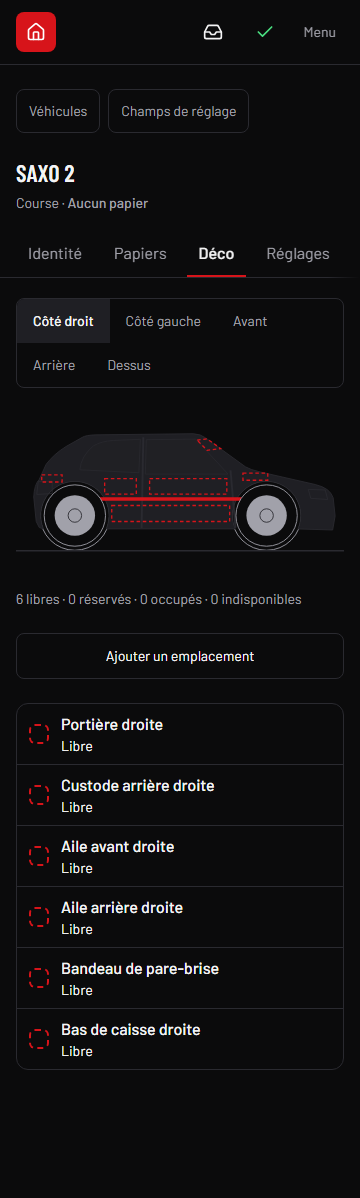
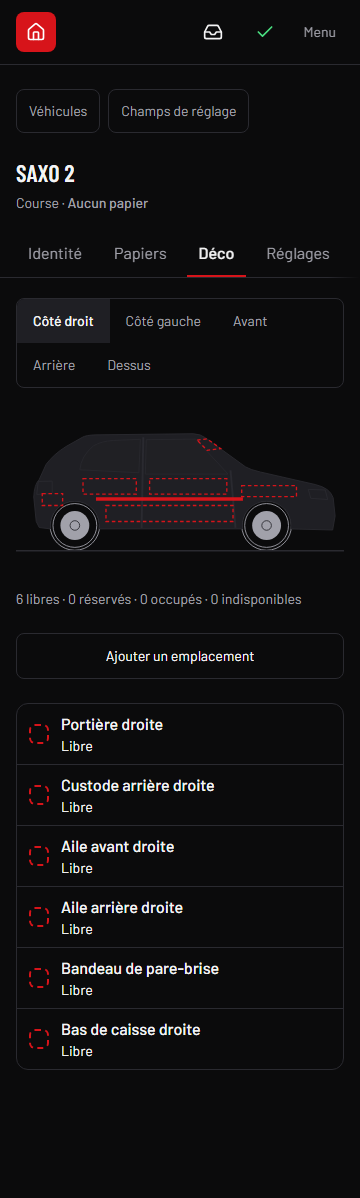
Voiture : le profil de la Saxo revient à la version 3, les roues agrandies restent à l'avant, l'arrière et le dessus
Le changement de roues ne devait toucher que les vues avant, arrière et dessus. Le profil (droite et gauche) retrouve ses roues, sa caisse et ses zones de c63b81f. Gabarit Saxo version 5, générique version 3 ; le profil v4 est dans les formes antérieures, pour que « Mettre le plan à jour » ramène les lignes libres à leur forme d'origine.

Changed region(s): [[0.1222, 0.4015, 0.3361, 0.4633], [0.6417, 0.4015, 0.825, 0.4633]]

diff --git a/src/apps/voiture/gabarits/saxo.ts b/src/apps/voiture/gabarits/saxo.ts
@@ -6,18 +6,17 @@ import type { ElementDessin, Gabarit } from "./types"
 // Vue gauche : le dessin droit, retourné à l'affichage. Vues avant, arrière et dessus : dessins schématiques
 // (validés par John) dans le même viewBox, à partir du profil. Version 2 : vues avant, arrière et dessus.
 // Version 3 : plus de lunette arrière (une vitre n'a pas d'emplacement). Version 4 : roues agrandies (diamètre ×1,4,
-// largeur ×0,7) ; les zones qui les touchaient sont déplacées hors de leur cercle (voir le test de chevauchement).
+// largeur ×0,7) sur avant, arrière et dessus. Version 5 : le profil revient à la version 3 (roues et zones d'origine) ;
+// les roues agrandies restent sur avant, arrière et dessus.
 
-// Roues : diamètre ×1,4 (rayon 28 → 39,2), posées sur le sol (bas à y 142), axes conservés en x. Les passages de roue
-// suivent le nouveau rayon (38,5, comme 27,5 pour 28).
 const DESSIN_DROIT: ElementDessin[] = [
-  { type: "circle", role: "roue", attributs: { cx: 66.4, cy: 102.8, r: 39.2 } },
-  { type: "circle", role: "roue", attributs: { cx: 282.7, cy: 102.8, r: 39.2 } },
+  { type: "circle", role: "roue", attributs: { cx: 66.4, cy: 114.0, r: 28.0 } },
+  { type: "circle", role: "roue", attributs: { cx: 282.7, cy: 114.0, r: 28.0 } },
   {
     type: "path",
     role: "caisse",
     attributs: {
-      d: "M22.8 109.5 L20.0 81.9 Q20.6 67.8 26.2 62.1 L34.0 45.0 Q42.5 33.6 56.5 24.9 L74.8 14.6 Q79.0 12.0 90.2 11.8 L199.8 10.5 Q208.3 10.8 213.9 15.2 L258.9 47.9 Q264.5 51.2 275.7 53.7 L337.5 67.8 Q354.4 71.7 357.8 82.8 L360.0 103.3 L357.2 119.1 L318.1 117.9 A 38.5 38.5 0 1 0 247.3 117.9 L101.8 117.9 A 38.5 38.5 0 1 0 31.0 117.9 L26.2 116.3 Z",
+      d: "M22.8 109.5 L20.0 81.9 Q20.6 67.8 26.2 62.1 L34.0 45.0 Q42.5 33.6 56.5 24.9 L74.8 14.6 Q79.0 12.0 90.2 11.8 L199.8 10.5 Q208.3 10.8 213.9 15.2 L258.9 47.9 Q264.5 51.2 275.7 53.7 L337.5 67.8 Q354.4 71.7 357.8 82.8 L360.0 103.3 L357.2 119.1 L310.0 117.9 A 27.5 27.5 0 1 0 255.5 117.9 L93.6 117.9 A 27.5 27.5 0 1 0 39.1 117.9 L26.2 116.3 Z",
     },
   },
   {
@@ -43,12 +42,12 @@ const DESSIN_DROIT: ElementDessin[] = [
   { type: "path", role: "detail", attributs: { d: "M25.1 64.3 L40.8 64.0 L40.8 78.0 L23.4 79.0 Z" } },
   { type: "path", role: "detail", attributs: { d: "M329.7 73.3 L348.8 74.0 L351.6 84.7 L332.5 83.4 Z" } },
   { type: "line", role: "detail", attributs: { x1: 90.2, y1: 84.2, x2: 256.0, y2: 84.2, "stroke-width": 4 } },
-  { type: "circle", role: "roue", attributs: { cx: 66.4, cy: 102.8, r: 34.6 } },
-  { type: "circle", role: "roue", attributs: { cx: 282.7, cy: 102.8, r: 34.6 } },
-  { type: "circle", role: "jante", attributs: { cx: 66.4, cy: 102.8, r: 22.8 } },
-  { type: "circle", role: "jante", attributs: { cx: 282.7, cy: 102.8, r: 22.8 } },
-  { type: "circle", role: "detail", attributs: { cx: 66.4, cy: 102.8, r: 7.6 } },
-  { type: "circle", role: "detail", attributs: { cx: 282.7, cy: 102.8, r: 7.6 } },
+  { type: "circle", role: "roue", attributs: { cx: 66.4, cy: 114.0, r: 24.7 } },
+  { type: "circle", role: "roue", attributs: { cx: 282.7, cy: 114.0, r: 24.7 } },
+  { type: "circle", role: "jante", attributs: { cx: 66.4, cy: 114.0, r: 16.3 } },
+  { type: "circle", role: "jante", attributs: { cx: 282.7, cy: 114.0, r: 16.3 } },
+  { type: "circle", role: "detail", attributs: { cx: 66.4, cy: 114.0, r: 5.4 } },
+  { type: "circle", role: "detail", attributs: { cx: 282.7, cy: 114.0, r: 5.4 } },
   { type: "line", role: "sol", attributs: { x1: 0, y1: 142.5, x2: 370, y2: 142.5, "stroke-width": 1.5 } },
 ]
 
@@ -131,7 +130,7 @@ export const gabaritSaxo: Gabarit = {
   cle: "citadine_3p_saxo",
   nom: "Citadine 3 portes (Saxo)",
   categorie: "citadine_3p",
-  version: 4,
+  version: 5,
   viewBox: "0 -14 370 173",
   vuesDessinees: [
     { vue: "droite", dessin: DESSIN_DROIT },
@@ -147,24 +146,24 @@ export const gabaritSaxo: Gabarit = {
       nom: "Custode arrière",
       vue: "droite",
       symetrique: true,
-      forme: { type: "rect", x: 100, y: 61.2, l: 35.7, h: 17.4 },
-      formesAnterieures: [{ type: "rect", x: 75.6, y: 61.2, l: 60.1, h: 17.4 }],
+      forme: { type: "rect", x: 75.6, y: 61.2, l: 60.1, h: 17.4 },
+      formesAnterieures: [{ type: "rect", x: 100, y: 61.2, l: 35.7, h: 17.4 }],
     },
     {
       ordre: 3,
       nom: "Aile avant",
       vue: "droite",
       symetrique: true,
-      forme: { type: "rect", x: 256, y: 55, l: 28, h: 8 },
-      formesAnterieures: [{ type: "rect", x: 254.6, y: 69, l: 61.8, h: 12.4 }],
+      forme: { type: "rect", x: 254.6, y: 69, l: 61.8, h: 12.4 },
+      formesAnterieures: [{ type: "rect", x: 256, y: 55, l: 28, h: 8 }],
     },
     {
       ordre: 4,
       nom: "Aile arrière",
       vue: "droite",
       symetrique: true,
-      forme: { type: "rect", x: 29, y: 57, l: 23, h: 8 },
-      formesAnterieures: [{ type: "rect", x: 29.6, y: 78, l: 23, h: 13.5 }],
+      forme: { type: "rect", x: 29.6, y: 78, l: 23, h: 13.5 },
+      formesAnterieures: [{ type: "rect", x: 29, y: 57, l: 23, h: 8 }],
     },
     {
       ordre: 5,
@@ -186,8 +185,8 @@ export const gabaritSaxo: Gabarit = {
       nom: "Bas de caisse",
       vue: "droite",
       symetrique: true,
-      forme: { type: "rect", x: 108, y: 91.5, l: 133, h: 18.0 },
-      formesAnterieures: [{ type: "rect", x: 101.5, y: 91.5, l: 143.3, h: 18.0 }],
+      forme: { type: "rect", x: 101.5, y: 91.5, l: 143.3, h: 18.0 },
+      formesAnterieures: [{ type: "rect", x: 108, y: 91.5, l: 133, h: 18.0 }],
     },
     { ordre: 7, nom: "Capot", vue: "dessus", symetrique: false, forme: { type: "rect", x: 300, y: 22, l: 44, h: 100 } },
     {

diff --git a/src/apps/voiture/gabarits/gabarits.test.ts b/src/apps/voiture/gabarits/gabarits.test.ts
@@ -49,6 +49,42 @@ describe("gabarit Saxo", () => {
     expect(sansForme).toEqual([])
   })
 
+  // Le profil (vues droite et gauche) est revenu à la version 3 : roues, caisse et zones sont celles de c63b81f.
+  it("le profil v5 est identique au profil v3 : roues d'origine, caisse et zones", () => {
+    const droite = gabaritSaxo.vuesDessinees.find((v) => v.vue === "droite")?.dessin ?? []
+    const cercles = droite.filter((e) => e.type === "circle").map((e) => [e.role, Number(e.attributs.cx), Number(e.attributs.cy), Number(e.attributs.r)])
+    expect(cercles).toEqual([
+      ["roue", 66.4, 114, 28],
+      ["roue", 282.7, 114, 28],
+      ["roue", 66.4, 114, 24.7],
+      ["roue", 282.7, 114, 24.7],
+      ["jante", 66.4, 114, 16.3],
+      ["jante", 282.7, 114, 16.3],
+      ["detail", 66.4, 114, 5.4],
+      ["detail", 282.7, 114, 5.4],
+    ])
+    expect(droite.find((e) => e.role === "caisse")?.attributs.d).toBe(
+      "M22.8 109.5 L20.0 81.9 Q20.6 67.8 26.2 62.1 L34.0 45.0 Q42.5 33.6 56.5 24.9 L74.8 14.6 Q79.0 12.0 90.2 11.8 L199.8 10.5 Q208.3 10.8 213.9 15.2 L258.9 47.9 Q264.5 51.2 275.7 53.7 L337.5 67.8 Q354.4 71.7 357.8 82.8 L360.0 103.3 L357.2 119.1 L310.0 117.9 A 27.5 27.5 0 1 0 255.5 117.9 L93.6 117.9 A 27.5 27.5 0 1 0 39.1 117.9 L26.2 116.3 Z",
+    )
+    const zones = gabaritSaxo.emplacementsTypes.filter((t) => t.vue === "droite" && t.forme?.type === "rect").map((t) => [t.nom, t.forme])
+    expect(zones).toEqual([
+      ["Portière", { type: "rect", x: 150.7, y: 61.2, l: 87.1, h: 17.4 }],
+      ["Custode arrière", { type: "rect", x: 75.6, y: 61.2, l: 60.1, h: 17.4 }],
+      ["Aile avant", { type: "rect", x: 254.6, y: 69, l: 61.8, h: 12.4 }],
+      ["Aile arrière", { type: "rect", x: 29.6, y: 78, l: 23, h: 13.5 }],
+      ["Bas de caisse", { type: "rect", x: 101.5, y: 91.5, l: 143.3, h: 18 }],
+    ])
+    expect(gabaritSaxo.emplacementsTypes.find((t) => t.nom === "Bandeau de pare-brise")?.forme).toEqual({
+      type: "polygone",
+      points: [
+        [204.3, 17.7],
+        [215.6, 16.3],
+        [230.8, 27.2],
+        [215.6, 29.2],
+      ],
+    })
+  })
+
   it("chaque zone rectangulaire fait au moins 8 unités de côté (minimum accepté par le service)", () => {
     for (const emplacement of gabaritSaxo.emplacementsTypes) {
       if (emplacement.forme?.type !== "rect") continue
@@ -68,13 +104,15 @@ describe("gabarit Saxo", () => {
 
   it("les pneus posent sur le sol (bas à y 142), et aucun emplacement de la vue droite ne touche un pneu", () => {
     const droite = gabaritSaxo.vuesDessinees.find((v) => v.vue === "droite")?.dessin ?? []
-    // Le cercle extérieur de chaque roue (rayon 39,2) : la bande de roulement (34,6), la jante et le détail n'y sont pas comptés.
-    const pneus = droite.filter((e) => e.type === "circle" && e.role === "roue" && Number(e.attributs.r) > 36)
+    // Le cercle extérieur de chaque roue (rayon 28) : la bande de roulement (24,7), la jante et le détail n'y sont pas comptés.
+    const pneus = droite.filter((e) => e.type === "circle" && e.role === "roue" && Number(e.attributs.r) > 26)
     expect(pneus).toHaveLength(2)
     for (const pneu of pneus) {
       expect(Number(pneu.attributs.cy) + Number(pneu.attributs.r)).toBeCloseTo(142, 5)
     }
     // Distance du centre du pneu au rectangle le plus proche : elle doit dépasser le rayon, sinon la zone touche le pneu.
+    // Tolérance de 2 unités : le dessin du profil validé par John laisse le coin de « Aile arrière » 1,6 unité dans le
+    // passage de roue arrière (distance 26,4 pour un pneu de 28). Le profil n'est pas retouché pour autant.
     for (const emplacement of gabaritSaxo.emplacementsTypes.filter((e) => e.vue === "droite")) {
       const forme = emplacement.forme
       if (forme?.type !== "rect") continue
@@ -83,7 +121,7 @@ describe("gabarit Saxo", () => {
         const cy = Number(pneu.attributs.cy)
         const px = Math.min(Math.max(cx, forme.x), forme.x + forme.l)
         const py = Math.min(Math.max(cy, forme.y), forme.y + forme.h)
-        expect(Math.hypot(px - cx, py - cy), `${emplacement.nom} et un pneu`).toBeGreaterThan(Number(pneu.attributs.r))
+        expect(Math.hypot(px - cx, py - cy), `${emplacement.nom} et un pneu`).toBeGreaterThanOrEqual(Number(pneu.attributs.r) - 2)
       }
     }
   })
@@ -124,9 +162,11 @@ describe("gabarit Saxo", () => {
 })
 
 describe("gabarit Voiture générique", () => {
-  it("sa version 1 porte les formes de la Saxo version 3 : c'est sa seule forme antérieure", () => {
+  it("reconnaît les formes de sa version 2 (profil de la Saxo version 4) et de sa version 1 (zones de la Saxo version 3)", () => {
     const aile = gabaritGenerique.emplacementsTypes.find((t) => t.nom === "Aile avant")
-    expect(aile?.formesAnterieures).toEqual([{ type: "rect", x: 254.6, y: 69, l: 61.8, h: 12.4 }])
+    expect(aile?.formesAnterieures).toEqual([{ type: "rect", x: 256, y: 55, l: 28, h: 8 }])
+    const hayon = gabaritGenerique.emplacementsTypes.find((t) => t.nom === "Hayon")
+    expect(hayon?.formesAnterieures).toEqual([{ type: "rect", x: 112, y: 66, l: 146, h: 46 }])
     expect(gabaritGenerique.emplacementsTypes.find((t) => t.nom === "Portière")?.formesAnterieures).toBeUndefined()
   })
 

diff --git a/src/apps/voiture/gabarits/generique.ts b/src/apps/voiture/gabarits/generique.ts
@@ -2,19 +2,31 @@
 // les 11 emplacements validés (pairs et uniques), et aucun sur la lunette arrière. Le dessin est PROVISOIRE : il reprend
 // la silhouette de la Saxo, en attendant le dessin définitif, fait après la validation par John des vues de la Saxo.
 import { gabaritSaxo } from "./saxo"
-import type { Gabarit } from "./types"
+import type { FormeEmplacement, Gabarit } from "./types"
 
 // Clé stockée sur le véhicule (gabarit_cle). Elle ne change jamais : c'est l'identifiant du modèle.
 export const CLE_GABARIT_GENERIQUE = "voiture_generique"
+
+// Formes que le générique a portées avant sa version 3, par emplacement (le complément les reconnaît pour remettre la
+// forme actuelle). Version 1 : formes de la Saxo version 3. Version 2 : formes de la Saxo version 4 (roues agrandies,
+// profil compris). La version 3 revient au profil de la Saxo version 3 : seules les formes de la version 2 du profil et
+// les formes de la version 1 des autres zones restent à reconnaître.
+const FORMES_ANTERIEURES: Record<string, FormeEmplacement[]> = {
+  "Custode arrière": [{ type: "rect", x: 100, y: 61.2, l: 35.7, h: 17.4 }],
+  "Aile avant": [{ type: "rect", x: 256, y: 55, l: 28, h: 8 }],
+  "Aile arrière": [{ type: "rect", x: 29, y: 57, l: 23, h: 8 }],
+  "Bas de caisse": [{ type: "rect", x: 108, y: 91.5, l: 133, h: 18 }],
+  Hayon: [{ type: "rect", x: 112, y: 66, l: 146, h: 46 }],
+  "Pare-chocs avant": [{ type: "rect", x: 110, y: 110, l: 150, h: 22 }],
+  "Pare-chocs arrière": [{ type: "rect", x: 110, y: 114, l: 150, h: 18 }],
+}
 
 export const gabaritGenerique: Gabarit = {
   cle: CLE_GABARIT_GENERIQUE,
   nom: "Voiture générique",
   categorie: "generique",
-  version: 2,
+  version: 3,
   viewBox: gabaritSaxo.viewBox,
   vuesDessinees: gabaritSaxo.vuesDessinees,
-  // Version 1 du générique : elle porte les formes de la Saxo version 3, c'est-à-dire la plus récente des formes
-  // antérieures de la Saxo (ou sa forme actuelle, si elle n'a pas changé). Rien d'autre à reconnaître.
-  emplacementsTypes: gabaritSaxo.emplacementsTypes.map((type) => ({ ...type, formesAnterieures: type.formesAnterieures?.slice(0, 1) })),
+  emplacementsTypes: gabaritSaxo.emplacementsTypes.map((type) => ({ ...type, formesAnterieures: FORMES_ANTERIEURES[type.nom] })),
 }

diff --git a/src/apps/voiture/regles.test.ts b/src/apps/voiture/regles.test.ts
@@ -262,6 +262,12 @@ describe("emplacements : complément d'un véhicule existant", () => {
     expect(plan.deplacees.includes("occupee")).toBe(false)
   })
 
+  it("une ligne libre restée à la forme v4 du profil revient à la forme d'origine (v3)", () => {
+    const aile = attendus.find((e) => e.vue === "droite" && e.nom === "Aile avant droite")
+    const existants = [{ id: "v4", vue: "droite" as const, nom: "Aile avant droite", libre: true, forme: aile?.formesAnterieures?.[0] }]
+    expect(planComplement(existants, attendus, options()).formes).toEqual([{ id: "v4", forme: aile?.forme }])
+  })
+
   it("une forme qui n'a jamais été celle du gabarit n'est pas remise, même si elle est proche", () => {
     const aile = attendus.find((e) => e.vue === "droite" && e.nom === "Aile avant droite")
     const proche = { ...(aile?.formesAnterieures?.[0] ?? { type: "rect" as const, x: 0, y: 0, l: 1, h: 1 }), x: 254 }

diff --git a/documentation/JOURNAL.md b/documentation/JOURNAL.md
@@ -433,4 +433,5 @@
 - Poignée sur téléphone (décision de l'orchestrateur) : la zone de contact de la poignée vaut au plus 44 px à l'écran, et au plus 35 % du côté le plus court de la forme. Le milieu reste à déplacer, même sur une petite forme. Test à 360 px sur « Aile avant droite » : un appui au milieu déplace, un appui au coin redimensionne. Sous 31 px de côté, la zone de déplacement de 20 px ne peut pas exister dans la forme : le milieu (la partie qui n'est pas dans le tiers du coin) reste à déplacer, mais le coin de « Aile avant droite » ne fait plus que quelques pixels à 360 px. Il n'y a pas de champ de taille dans le tiroir pour compenser.
 - « Mettre le plan à jour » ne remet la forme du gabarit que sur une ligne libre dont la forme est encore une forme antérieure du gabarit (`formesAnterieures` par type : Saxo v1 à v3, générique v1 = Saxo v3). Une forme placée à la main reste telle quelle et est comptée à part dans la phrase (« N emplacements déplacés à la main, laissés tels quels »). Une ligne occupée ou liée ne bouge jamais.
 - Roues : l'orchestrateur confirme que les roues montent (axes en x, sol conservé), comme voulu par John.
+- Correction de portée (20/10/2026) : le changement de roues ne devait pas toucher au profil. Le profil (vues droite et gauche) revient à la version 3 : roues de rayon 28 au centre d'origine, passages de roue, Portière, Custode arrière, Aile avant, Aile arrière, Bas de caisse et Bandeau sont ceux de `c63b81f`. Les roues agrandies et amincies restent sur avant, arrière et dessus, avec les Pare-chocs et le Hayon adaptés. Gabarit Saxo version 5, générique version 3. Le profil v4 est dans `formesAnterieures` : « Mettre le plan à jour » ramène à la forme d'origine une ligne libre restée à la forme v4, et laisse intactes une ligne occupée ou déplacée à la main. Le test du profil compare roues, caisse et zones à `c63b81f`. Au passage, le test « aucune zone ne touche un pneu » se recale sur les roues d'origine avec une tolérance de 2 unités : le dessin validé par John laisse le coin d'« Aile arrière » 1,6 unité dans le passage de roue. Le profil n'est pas retouché pour autant.
 - Point ouvert (inchangé) : les `aborted ECONNRESET` des journaux e2e, toujours sans échec de test.
